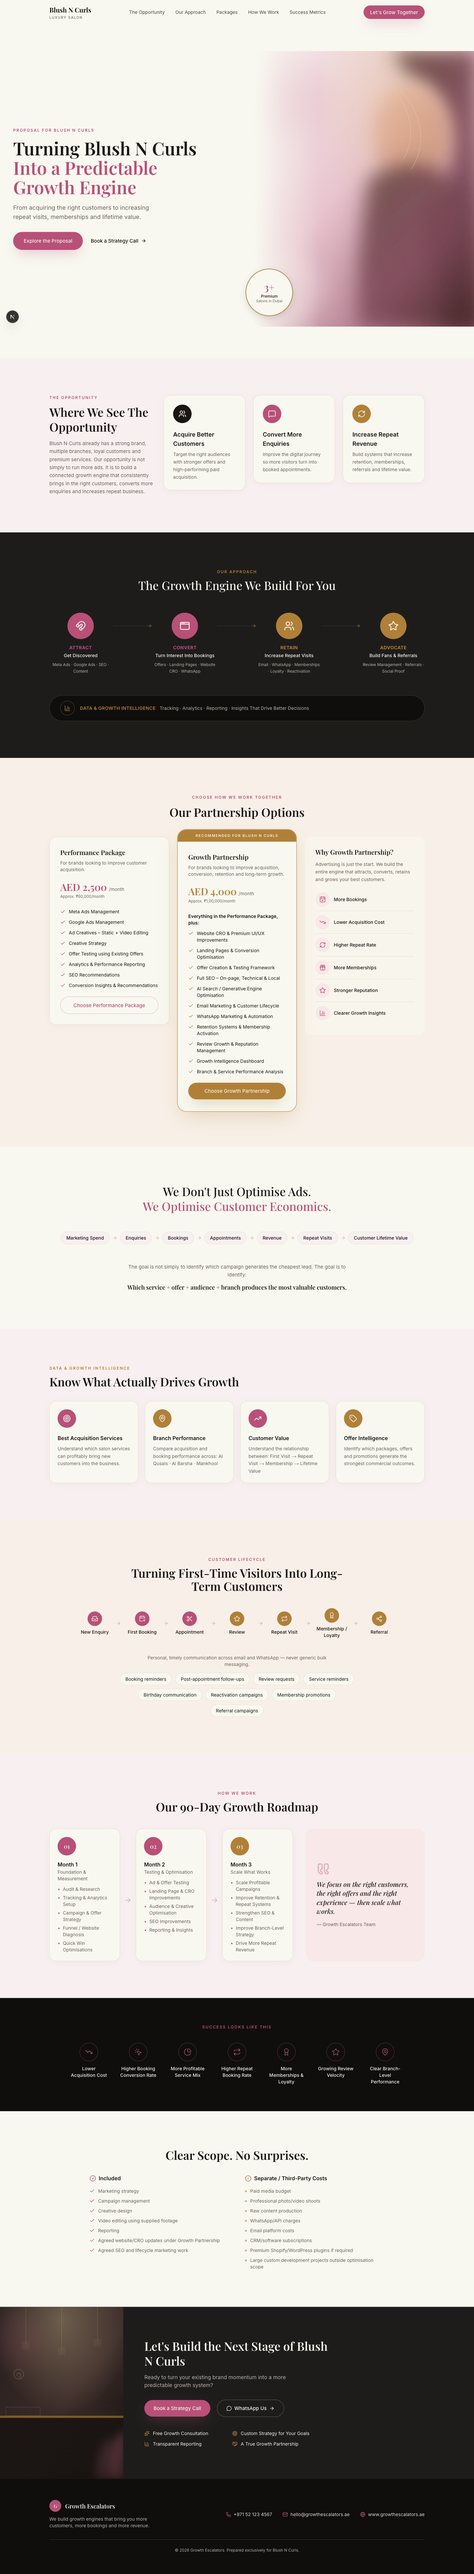
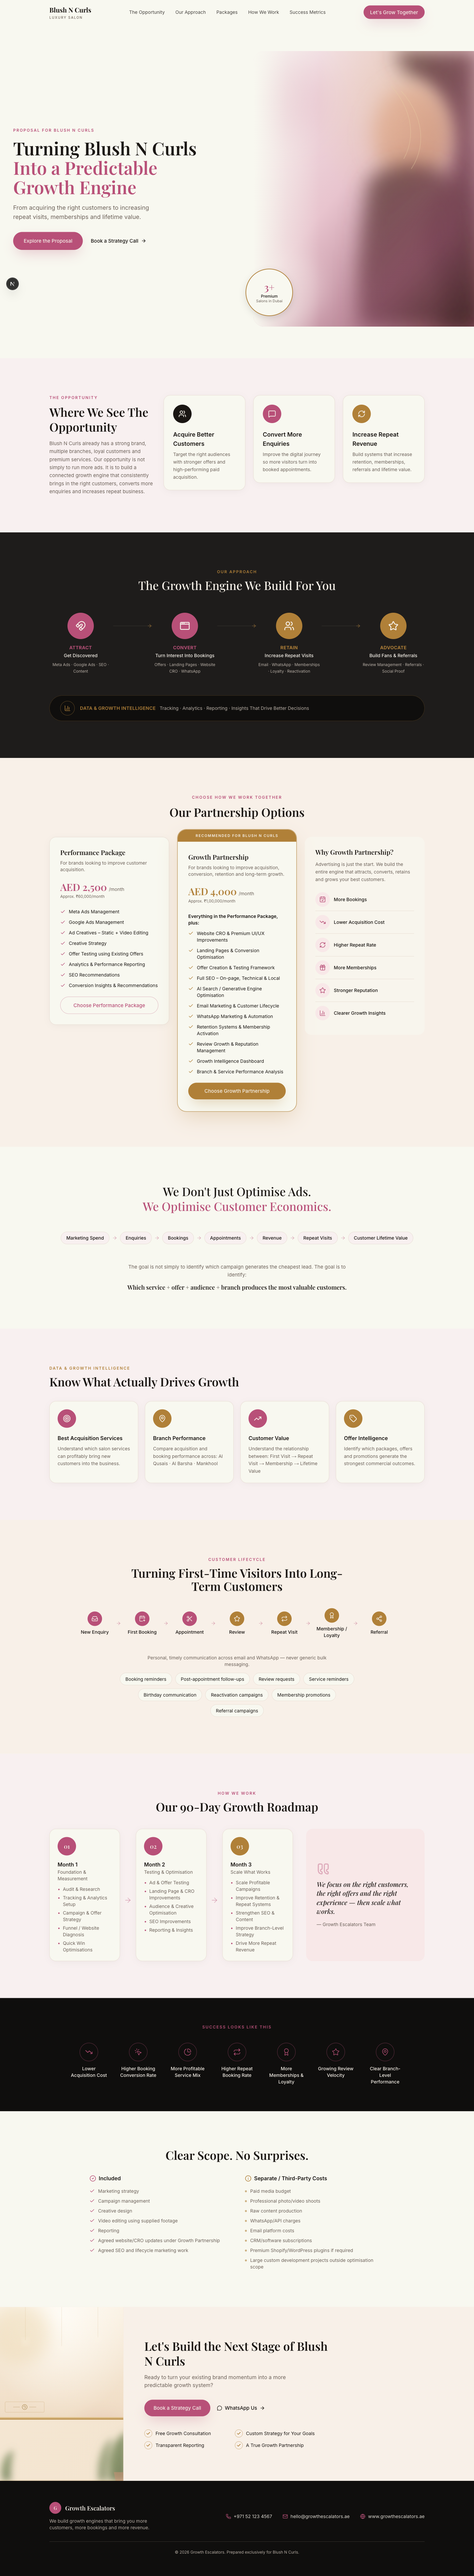
Fix Final CTA section — light treatment to match reference mockup

diff --git a/src/components/FinalCTA.tsx b/src/components/FinalCTA.tsx
@@ -1,17 +1,17 @@
-import { MessageCircle, Sparkles, Target, BarChart3, Handshake } from "lucide-react";
+import { Check, MessageCircle } from "lucide-react";
 import Button from "@/components/ui/Button";
 import Reveal from "@/components/ui/Reveal";
 
 const trustPoints = [
-  { icon: Sparkles, label: "Free Growth Consultation" },
-  { icon: Target, label: "Custom Strategy for Your Goals" },
-  { icon: BarChart3, label: "Transparent Reporting" },
-  { icon: Handshake, label: "A True Growth Partnership" },
+  "Free Growth Consultation",
+  "Custom Strategy for Your Goals",
+  "Transparent Reporting",
+  "A True Growth Partnership",
 ];
 
 export default function FinalCTA() {
   return (
-    <section id="final-cta" className="relative bg-charcoal">
+    <section id="final-cta" className="relative bg-cream-tint">
       <div className="flex flex-col lg:flex-row">
         <div className="w-full lg:w-[26%] h-64 lg:h-auto relative overflow-hidden shrink-0">
           <img
@@ -24,10 +24,10 @@ export default function FinalCTA() {
         <div className="flex-1 py-16 md:py-24 px-6 sm:px-10 lg:px-16 flex flex-col items-center lg:items-start justify-center text-center lg:text-left">
           <Reveal>
             <div className="flex flex-col items-center lg:items-start">
-              <h2 className="font-serif text-cream-text text-3xl sm:text-4xl font-semibold leading-tight max-w-xl">
+              <h2 className="font-serif text-ink text-3xl sm:text-4xl font-semibold leading-tight max-w-xl">
                 Let&apos;s Build the Next Stage of Blush N Curls
               </h2>
-              <p className="text-muted-on-dark text-base max-w-lg pt-4">
+              <p className="text-muted text-base max-w-lg pt-4">
                 Ready to turn your existing brand momentum into a more
                 predictable growth system?
               </p>
@@ -38,7 +38,7 @@ export default function FinalCTA() {
                 </Button>
                 <Button
                   href="#"
-                  variant="outline-cream"
+                  variant="text-rose"
                   icon={<MessageCircle className="h-4 w-4" />}
                   showArrow
                 >
@@ -47,12 +47,14 @@ export default function FinalCTA() {
               </div>
 
               <div className="grid grid-cols-1 sm:grid-cols-2 gap-x-8 gap-y-3 pt-10 text-left">
-                {trustPoints.map(({ icon: Icon, label }) => (
+                {trustPoints.map((label) => (
                   <div
                     key={label}
-                    className="flex items-center gap-2.5 text-cream-text text-sm"
+                    className="flex items-center gap-2.5 text-ink text-sm"
                   >
-                    <Icon className="text-gold h-4 w-4 shrink-0" />
+                    <div className="flex h-6 w-6 shrink-0 items-center justify-center rounded-full border border-gold/60 text-gold">
+                      <Check className="h-3.5 w-3.5" strokeWidth={3} />
+                    </div>
                     <span>{label}</span>
                   </div>
                 ))}
